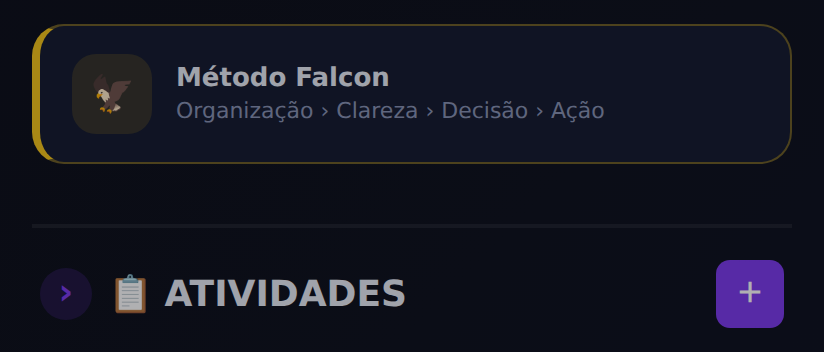
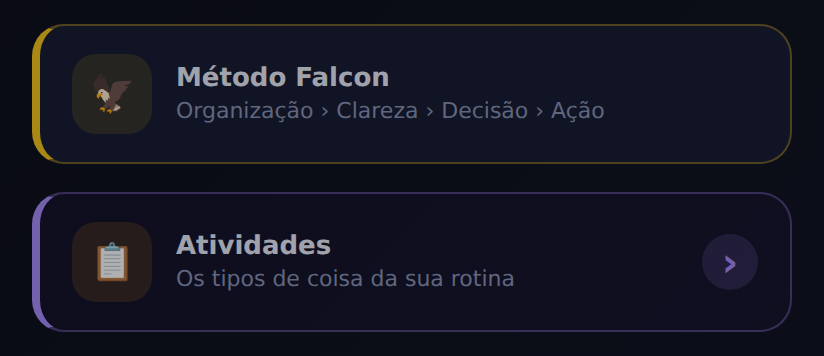
feat(home): Atividades vira card clicável que abre a lista; Aprenda outra língua vai pras Ferramentas (v816)
Claude-Session: https://claude.ai/code/session_01Foro8P3NcfxeaSgTtziQqB

diff --git a/js/screens/tela-inicio.js b/js/screens/tela-inicio.js
@@ -138,7 +138,7 @@ export async function renderHome(app) {
         <div class="reminders-icon">🛠</div>
         <div class="reminders-text">
           <div class="reminders-title">Ferramentas</div>
-          <div class="reminders-sub">Agenda Online e Rifa Solidária</div>
+          <div class="reminders-sub">Agenda Online, Rifa e Aprenda outra língua</div>
         </div>
       </button>
 
@@ -162,15 +162,6 @@ export async function renderHome(app) {
       </button>
 
 
-      <!-- APRENDA OUTRA LÍNGUA: por enquanto só avisa que está em desenvolvimento (Élton, 22/10) -->
-      <button class="reminders-card" id="lingua-card" type="button">
-        <div class="reminders-icon">🌎</div>
-        <div class="reminders-text">
-          <div class="reminders-title">Aprenda outra língua</div>
-          <div class="reminders-sub">15 minutos por dia</div>
-        </div>
-      </button>
-
       <!-- MÉTODO FALCON: Objetivos, Ideal, Prioridades e Metas (Élton, 22/10) -->
       <button class="reminders-card metodo-card" id="metodo-card" type="button">
         <div class="reminders-icon">🦅</div>
@@ -182,13 +173,18 @@ export async function renderHome(app) {
       </button>
 
       <!-- ATIVIDADES: último card, abre e fecha no título (começa aberto) -->
-      <div class="home-section home-bloco${_lerAtivFechado() ? ' fechado' : ''}" id="ativ-bloco">
-        <div class="home-section-title home-bloco-titulo">
-          <button type="button" class="ativ-toggle" id="ativ-toggle" aria-expanded="${!_lerAtivFechado()}"><span class="ativ-seta" aria-hidden="true">›</span><span>${t('home.activities')}</span></button>
-          <button class="home-add-btn" id="add-cat" title="${t('home.activity.new')}">+</button>
-        </div>
+      <div class="ativ-bloco${_lerAtivFechado() ? ' fechado' : ''}" id="ativ-bloco">
+        <button class="reminders-card" id="ativ-card" type="button" aria-expanded="${!_lerAtivFechado()}">
+          <div class="reminders-icon">📋</div>
+          <div class="reminders-text">
+            <div class="reminders-title">Atividades</div>
+            <div class="reminders-sub">Os tipos de coisa da sua rotina</div>
+          </div>
+          <span class="ativ-seta" aria-hidden="true">›</span>
+        </button>
         <div class="ativ-corpo">
           <div id="cats-list"></div>
+          <button class="ativ-nova" id="add-cat" type="button">＋ ${t('home.activity.new')}</button>
           <div class="bloco-sub bloco-sub-fim">${t('home.activities.hint')}</div>
         </div>
       </div>
@@ -213,12 +209,11 @@ export async function renderHome(app) {
   pintarBadgeFerramentas();
   document.getElementById('ferramentas-card')?.addEventListener('click', abrirFerramentas);
   document.getElementById('metodo-card')?.addEventListener('click', abrirMetodo);
-  document.getElementById('lingua-card')?.addEventListener('click', () => showToast('🌎 Aprenda outra língua está em desenvolvimento. Em breve! 🦅', 'info'));
-  document.getElementById('ativ-toggle')?.addEventListener('click', () => {
+  document.getElementById('ativ-card')?.addEventListener('click', () => {
     const bl = document.getElementById('ativ-bloco');
     const fechado = !bl.classList.contains('fechado');
     bl.classList.toggle('fechado', fechado);
-    document.getElementById('ativ-toggle').setAttribute('aria-expanded', String(!fechado));
+    document.getElementById('ativ-card').setAttribute('aria-expanded', String(!fechado));
     try { localStorage.setItem('falcon_ativ_fechado', fechado ? '1' : ''); } catch { /* sem armazenamento */ }
   });
 

diff --git a/css/styles.css b/css/styles.css
@@ -2314,12 +2314,12 @@ body.time-picker-open { overflow: hidden; }
 #ferramentas-card  { --card-cor: #60a5fa; }
 #cartao-dia-card   { --card-cor: #34d399; }
 #metodo-card       { --card-cor: #f5c518; }
-#lingua-card       { --card-cor: #22d3ee; }
-#avisos-card, #reminders-card, #morning-msgs-card, #ferramentas-card, #cartao-dia-card, #metodo-card, #lingua-card {
+#ativ-card         { --card-cor: #a78bfa; }
+#avisos-card, #reminders-card, #morning-msgs-card, #ferramentas-card, #cartao-dia-card, #metodo-card, #ativ-card {
   border: 1px solid color-mix(in srgb, var(--card-cor) 40%, transparent);
   border-left: 4px solid var(--card-cor);
 }
-#avisos-card:hover, #reminders-card:hover, #morning-msgs-card:hover, #ferramentas-card:hover, #cartao-dia-card:hover, #metodo-card:hover, #lingua-card:hover {
+#avisos-card:hover, #reminders-card:hover, #morning-msgs-card:hover, #ferramentas-card:hover, #cartao-dia-card:hover, #metodo-card:hover, #ativ-card:hover {
   border-color: color-mix(in srgb, var(--card-cor) 40%, transparent);
   border-left-color: var(--card-cor);
 }
@@ -8825,7 +8825,9 @@ body.rota-publica .bottom-nav { display: none !important; }
 
 /* ── Home: Método Falcon e Atividades que abre e fecha ── */
 #metodo-card .reminders-icon { background: rgba(245,197,24,0.14); }
-.ativ-toggle { display: flex; align-items: center; gap: 8px; background: none; border: none; padding: 0; color: inherit; font: inherit; cursor: pointer; }
-.ativ-seta { width: 26px; height: 26px; border-radius: 50%; display: grid; place-items: center; background: var(--accent); color: #fff; font-size: 18px !important; transform: rotate(90deg); transition: transform .15s; }
-.home-bloco.fechado .ativ-seta { transform: none; background: color-mix(in srgb, var(--accent) 18%, transparent); color: var(--accent); }
-.home-bloco.fechado .ativ-corpo { display: none; }
+#ativ-card { position: relative; }
+.ativ-seta { flex: none; margin-left: auto; width: 28px; height: 28px; border-radius: 50%; display: grid; place-items: center; background: color-mix(in srgb, var(--card-cor) 18%, transparent); color: var(--card-cor); font-size: 20px; font-weight: 800; transform: rotate(90deg); transition: transform .15s; }
+.ativ-bloco.fechado .ativ-seta { transform: none; }
+.ativ-bloco.fechado .ativ-corpo { display: none; }
+.ativ-corpo { margin-top: 10px; }
+.ativ-nova { width: 100%; margin: 6px 0 4px; padding: 12px; border-radius: 14px; border: 1px dashed color-mix(in srgb, var(--accent) 55%, var(--border)); background: none; color: var(--accent); font: inherit; font-weight: 700; cursor: pointer; }

diff --git a/js/ferramentas-ui.js b/js/ferramentas-ui.js
@@ -174,6 +174,11 @@ function telaHub() {
         <span class="fr-hub-tx"><b>Rifa Solidária</b><small>Crie sua rifa e compartilhe o link</small></span>
         <span class="fr-hub-tag">PRO</span>
       </button>
+      <button class="fr-hubcard" data-hub-lingua type="button">
+        <span class="fr-hub-ic">🌎</span>
+        <span class="fr-hub-tx"><b>Aprenda outra língua</b><small>15 minutos por dia</small></span>
+        <span class="fr-hub-tag">EM BREVE</span>
+      </button>
     </div>`;
   const pend = grupos.reduce((n, g) => n + _pendGrupo(g), 0);
   const prio = _prioridades().filter(x => !x.item.feito).length;
@@ -432,6 +437,7 @@ export function ligarFerramentas() {
     if (e.target.closest('[data-hub-agenda]')) { abrirAgenda(); return; }   // abre por cima do hub
     if (e.target.closest('[data-hub-rifa]')) { abrirRifas(); return; }
     if (e.target.closest('[data-guia]')) { abrirGuia(false); return; }
+    if (e.target.closest('[data-hub-lingua]')) { showToast('🌎 Aprenda outra língua está em desenvolvimento. Em breve! 🦅', 'info'); return; }
 
     const abrir = e.target.closest('[data-grupo]');
     if (abrir) { _empurrar(); grupoAberto = abrir.dataset.grupo; desenhar(); return; }

diff --git a/index.html b/index.html
@@ -16,7 +16,7 @@
 <!-- Force-update: unregister → re-register → SW ready → reload -->
 <script>
   (function() {
-    var V='815';
+    var V='816';
     window.__BUILD = V;   // exibido em Ajustes: encerra a dúvida de 'a atualização chegou?'
     if (localStorage.getItem('_visao_build') !== V) {
       localStorage.setItem('_visao_build', V);
@@ -51,7 +51,7 @@
 <meta name="apple-mobile-web-app-status-bar-style" content="black-translucent">
 <meta name="apple-mobile-web-app-title" content="Falcon">
 <meta name="mobile-web-app-capable" content="yes">
-<link rel="stylesheet" href="css/styles.css?v=20261022a">
+<link rel="stylesheet" href="css/styles.css?v=20261022b">
 <style>.onboarding-logo,.ajustes-avatar{background:#4f46e5!important}</style>
 <script>
   // Aplica tema ANTES de qualquer render — evita flash de tema errado
@@ -73,7 +73,7 @@
       <div>Carregando Falcon...</div>
     </div>
   </div>
-  <script type="module" src="js/inicializador.js?v=20261022a"></script>
+  <script type="module" src="js/inicializador.js?v=20261022b"></script>
 
   <!-- Registro do Service Worker (PWA) -->
   <script>

diff --git a/js/inicializador.js b/js/inicializador.js
@@ -33,7 +33,7 @@ import { showToast } from './aviso-tela.js';
 import { playAlert } from './sons.js';
 import { hasTerms } from './lgpd-consentimentos.js';
 import { guardarConviteDoLink } from './desafios-sala.js';
-import { initPet, showPet, hidePet } from './assistente-ia.js?v=20261022a';
+import { initPet, showPet, hidePet } from './assistente-ia.js?v=20261022b';
 
 
 // ═══════════════════════════════════════════════════════════════

diff --git a/sw.js b/sw.js
@@ -6,7 +6,7 @@
 //   - Firebase/CDN → sempre rede (não cacheia)
 // ═══════════════════════════════════════════════════════════════
 
-const CACHE_NAME = 'visao-v815';
+const CACHE_NAME = 'visao-v816';
 
 // Estado de mute — atualizado via postMessage do app principal
 let _muted = false;

diff --git a/rifa.html b/rifa.html
@@ -15,7 +15,7 @@
     } catch (e) {}
   })();
 </script>
-<link rel="stylesheet" href="css/styles.css?v=20261022a">
+<link rel="stylesheet" href="css/styles.css?v=20261022b">
 <style>
   html, body { margin: 0; }
   #rf-splash {
